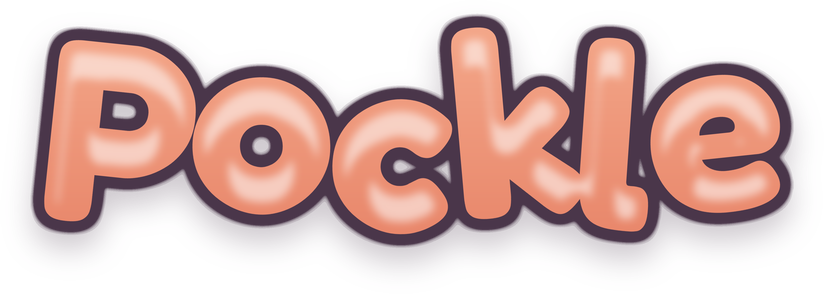
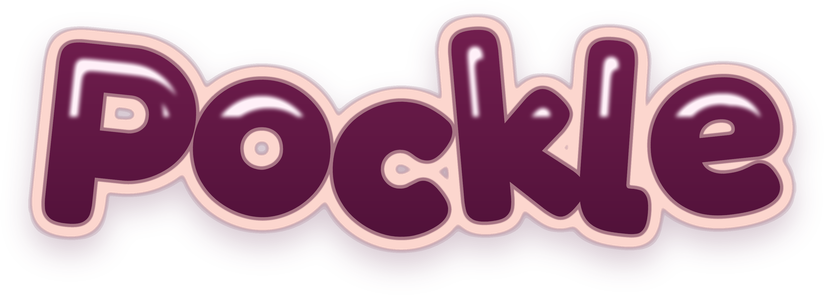
UX-002: Match the wordmark to the approved box art (glossy plum, blush outline)
Claude-Session: https://claude.ai/code/session_01NiFNrubi1Ery3fhnAChQXM

diff --git a/tools/build-ui-assets.py b/tools/build-ui-assets.py
@@ -19,6 +19,10 @@ OUT = ROOT / "Assets/Pockle/Resources/UI"
 INK = (74, 54, 74)
 PEACH = (247, 176, 146)
 PEACH_DEEP = (233, 136, 108)
+# Wordmark colours match the approved collection box art: glossy plum letters, blush outline.
+PLUM_TOP = (122, 34, 84)
+PLUM_BOTTOM = (82, 18, 58)
+BLUSH = (252, 214, 206)
 SS = 4  # supersampling factor for smooth edges
 
 
@@ -45,26 +49,33 @@ def wordmark(font_path):
     for i, (mask, adv, box, pad) in enumerate(glyphs):
         shape.paste(255, (int(x + box[0] - pad), int(base + box[1] - pad + lift[i] * SS)), mask)
         x += adv - 8 * SS
-    outline = dilate(shape, 11 * SS)
+    outline = dilate(shape, 13 * SS)
     shadow = outline.filter(ImageFilter.GaussianBlur(14 * SS))
     canvas = Image.new("RGBA", (width, height), (0, 0, 0, 0))
     shadow_offset = Image.new("L", (width, height), 0)
-    shadow_offset.paste(shadow, (0, 16 * SS))
-    canvas.paste((INK[0], INK[1], INK[2], 70), (0, 0), shadow_offset)
-    canvas.paste(INK + (255,), (0, 0), outline)
-    # Peach body, deepening toward the bottom like light through gel.
+    shadow_offset.paste(shadow, (0, 14 * SS))
+    canvas.paste(PLUM_BOTTOM + (60,), (0, 0), shadow_offset)
+    canvas.paste(BLUSH + (255,), (0, 0), outline)
+    # Plum body, deepening toward the bottom.
     grad = Image.new("RGBA", (width, height))
     gd = ImageDraw.Draw(grad)
     for y in range(height):
         t = min(1, max(0, (y - base) / (size * 1.0)))
-        gd.line([(0, y), (width, y)], fill=tuple(int(PEACH[c] + (PEACH_DEEP[c] - PEACH[c]) * t) for c in range(3)) + (255,))
+        gd.line([(0, y), (width, y)], fill=tuple(int(PLUM_TOP[c] + (PLUM_BOTTOM[c] - PLUM_TOP[c]) * t) for c in range(3)) + (255,))
     canvas.paste(grad, (0, 0), shape)
-    # Glossy highlight: a soft crescent along the top edge of every letter.
-    inner = erode(shape, 12 * SS)
-    below = Image.new("L", (width, height), 0)
-    below.paste(inner, (0, 26 * SS))
-    gloss = ImageChops.subtract(inner, below).filter(ImageFilter.GaussianBlur(4 * SS))
-    canvas.paste((255, 255, 255, 255), (0, 0), gloss.point(lambda v: int(v * 0.55)))
+    # Glossy candy highlights: a thin specular rim on each letter's upper-left edge,
+    # limited to the top half so it reads as light on a rounded surface.
+    inner = erode(shape, 16 * SS)
+    shifted = Image.new("L", (width, height), 0)
+    shifted.paste(inner, (7 * SS, 12 * SS))
+    rim = ImageChops.subtract(inner, shifted)
+    top = Image.new("L", (width, height), 0)
+    ImageDraw.Draw(top).rectangle([0, 0, width, base + int(size * 0.55)], fill=255)
+    rim = ImageChops.multiply(rim, top).filter(ImageFilter.GaussianBlur(2 * SS))
+    canvas.paste((255, 240, 248, 255), (0, 0), rim.point(lambda v: min(255, int(v * 1.1))))
+    # Darker plum edge inside the blush outline keeps the letters crisp at small sizes.
+    edge = ImageChops.subtract(dilate(shape, 3 * SS), shape)
+    canvas.paste(PLUM_BOTTOM + (255,), (0, 0), edge.point(lambda v: int(v * 0.5)))
     canvas = canvas.crop(canvas.getbbox())
     return canvas.resize((canvas.width // SS, canvas.height // SS), Image.LANCZOS)
 

diff --git a/Assets/Pockle/Runtime/PrototypeHud.cs b/Assets/Pockle/Runtime/PrototypeHud.cs
@@ -413,7 +413,7 @@ namespace Pockle.Runtime
             }
             else
             {
-                var text = Label("Pockle", mark, 32, PockleTheme.PeachDeep, FontStyle.Bold, TextAnchor.MiddleLeft, Vector2.zero, Vector2.zero);
+                var text = Label("Pockle", mark, 32, Ink, FontStyle.Bold, TextAnchor.MiddleLeft, Vector2.zero, Vector2.zero);
                 Stretch(text.rectTransform);
             }
             return mark;

diff --git a/docs/VISUAL_SYSTEM.md b/docs/VISUAL_SYSTEM.md
@@ -15,7 +15,7 @@ Soft, squishy, and warm: the UI should feel like the packaging of a designer toy
 | `Paper` | `#FFFDF8` | Cards, tab bar, dialogs |
 | `Quiet` | `#F3ECE4` | Secondary buttons, progress tracks, inputs |
 | `Peach` | `#F7B092` | Primary actions, selected tab, progress fill |
-| `PeachDeep` | `#E3876B` | The lip under primary buttons; wordmark gradient |
+| `PeachDeep` | `#E3876B` | The lip under primary buttons |
 | `TilePeach` / `TileLavender` / `TileMint` | `#FCDCC5` / `#DCE2FA` / `#DBF0E2` | Home hub tiles (Collection / Rewards / Friends) |
 | `ShelfFace` / `ShelfPlank` | `#FAF5EF` / `#E6D7C9` | Shelf tiles and their ceramic shelf |
 
@@ -52,7 +52,7 @@ Both fonts are under the SIL Open Font License; license texts sit next to them i
 
 Generated by `tools/build-ui-assets.py` into `Assets/Pockle/Resources/UI/`:
 
-- `PockleWordmark.png`: the squishy wordmark (bouncing Fredoka Bold letters, peach gel gradient, glossy top edges, plum outline). Shown on Home in place of the old text logo.
+- `PockleWordmark.png`: the squishy wordmark, matching the approved collection box art: bouncing Fredoka Bold letters in glossy plum with candy highlights and a blush outline. Shown on Home in place of the old text logo.
 - `Icons/Home`, `Box`, `You`, `Settings`, `Back`: white-on-transparent so code tints them. Tabs use Home/Box/You; the header uses Settings (gear) and Back (chevron).
 
 Re-run the script after editing shapes; it keeps file names and the committed `.meta` GUIDs stay valid.
